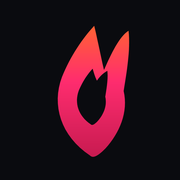
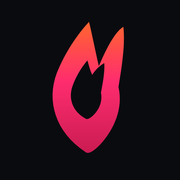
fix(brand): nest open, TG safe margin, mono white, heart A/B only
Open nest ~11% with denser stem / thinner ears via evenodd geometry;
shrink Telegram avatar mark to ~50% with COM optical center; add
mark-mono-white master; keep micro-heart as logo-variants only.

Changed region(s): [[0.2778, 0.1111, 0.7222, 0.8889]]

diff --git a/web/src/components/BrandMark.tsx b/web/src/components/BrandMark.tsx
@@ -9,7 +9,7 @@ import { useId } from "react";
 
 /** Пламя + гнездо (evenodd). viewBox 100×100. */
 const ФАКЕЛ =
-  "M 50.000,81.494 C 35.850,72.061 31.470,57.236 36.523,43.760 C 40.566,33.652 46.631,24.893 52.021,19.165 C 54.043,27.588 55.391,35.000 56.738,40.391 C 60.107,32.642 64.150,24.219 68.530,21.523 C 69.541,30.957 67.520,41.738 66.172,50.498 C 68.530,60.605 64.150,70.713 57.412,78.125 C 53.369,82.168 51.348,82.842 50.000,81.494 Z M 50.391,66.523 C 44.320,62.477 42.441,56.117 44.609,50.336 C 46.344,46.000 48.945,42.242 51.258,39.785 C 52.000,42.200 52.600,44.200 53.350,45.500 C 54.200,44.200 55.800,42.200 58.340,40.797 C 58.773,44.844 57.906,49.469 57.328,53.227 C 58.340,57.563 56.461,61.898 53.570,65.078 C 51.836,66.812 50.969,67.102 50.391,66.523 Z";
+  "M 50.000,81.494 C 35.850,72.061 31.470,57.236 36.523,43.760 C 40.566,33.652 46.631,24.893 52.021,19.165 C 54.043,27.588 55.391,35.000 56.738,40.391 C 60.107,32.642 64.150,24.219 68.530,21.523 C 69.541,30.957 67.520,41.738 66.172,50.498 C 68.530,60.605 64.150,70.713 57.412,78.125 C 53.369,82.168 51.348,82.842 50.000,81.494 Z M 50.450,65.683 C 44.323,62.473 41.919,56.266 44.070,50.074 C 45.803,45.173 48.630,40.724 51.251,37.715 C 52.094,40.674 52.757,43.065 53.580,44.592 C 54.551,43.065 56.403,40.674 59.349,38.964 C 59.645,43.824 58.476,49.114 57.743,53.202 C 58.691,57.762 56.497,61.957 53.480,64.624 C 51.798,65.881 50.994,66.076 50.450,65.683 Z";
 
 export default function BrandMark({
   size = 64,

diff --git a/tools/brandmark.py b/tools/brandmark.py
@@ -4,9 +4,12 @@
 Внутри — тёмное гнездо той же формы («ушки»), без отдельного глифа
 (+, бар, искра) и без крупного сердца, ломающего контур.
 
-Геометрия — исходный r3-06-dawn (viewBox 1024→100), долина стыка
-внутренних шардов поднята, чтобы убрать белый сливер. Растр через
-4× supersample — PIL polygon без него оставлял светлую щель на AA.
+Геометрия — outer r3-06-dawn (viewBox 1024→100) без изменений силуэта.
+Nest открыт ~11% и перераспределён по весу кольца (evenodd): тоньше
+пики/ушки, плотнее ножка. Долина стыка шардов сохранена.
+
+Растр через 4× supersample — PIL polygon без него оставлял светлую
+щель на AA.
 
 Источник правды для make_icons / make_banners; SVG на лендинге и
 React (BrandMark.tsx) повторяют те же контуры.
@@ -41,16 +44,31 @@ _OUTER_100 = (
     "C 68.530,60.605 64.150,70.713 57.412,78.125 "
     "C 53.369,82.168 51.348,82.842 50.000,81.494 Z"
 )
-# Nested гнездо: ушки как у r3-06, долина стыка ~45.5 (было ~48.9),
-# чтобы шарды сходились без белого сливера на растеризации.
+
+# Nested гнездо: канон r3-06, затем morph от центроида nest
+# (mid=1.07, top=1.15, bot=0.93) — площадь cutout +~11.5%, ушки
+# тоньше (~−10%), ножка плотнее (~+5%). Силуэт outer не трогаем.
 _NEST_100 = (
-    "M 50.391,66.523 C 44.320,62.477 42.441,56.117 44.609,50.336 "
-    "C 46.344,46.000 48.945,42.242 51.258,39.785 "
-    "C 52.000,42.200 52.600,44.200 53.350,45.500 "
-    "C 54.200,44.200 55.800,42.200 58.340,40.797 "
-    "C 58.773,44.844 57.906,49.469 57.328,53.227 "
-    "C 58.340,57.563 56.461,61.898 53.570,65.078 "
-    "C 51.836,66.812 50.969,67.102 50.391,66.523 Z"
+    "M 50.450,65.683 C 44.323,62.473 41.919,56.266 44.070,50.074 "
+    "C 45.803,45.173 48.630,40.724 51.251,37.715 "
+    "C 52.094,40.674 52.757,43.065 53.580,44.592 "
+    "C 54.551,43.065 56.403,40.674 59.349,38.964 "
+    "C 59.645,43.824 58.476,49.114 57.743,53.202 "
+    "C 58.691,57.762 56.497,61.957 53.480,64.624 "
+    "C 51.798,65.881 50.994,66.076 50.450,65.683 Z"
+)
+
+# Микро-сердце внутри nest — только для A/B variant, не default mark.
+# viewBox 100; центр гнезда ~ (51.3, 52.5), компактно чтобы не
+# касаться ушек и не читаться как «сердце-факел».
+_HEART_100 = (
+    "M 51.30,55.55 "
+    "C 49.95,54.55 48.95,53.35 48.95,52.05 "
+    "C 48.95,51.05 49.70,50.40 50.55,50.40 "
+    "C 50.95,50.40 51.30,50.60 51.30,50.60 "
+    "C 51.30,50.60 51.65,50.40 52.05,50.40 "
+    "C 52.90,50.40 53.65,51.05 53.65,52.05 "
+    "C 53.65,53.35 52.65,54.55 51.30,55.55 Z"
 )
 
 # Половина высоты внешнего пламени в unit-space (для масштаба r).
@@ -59,6 +77,7 @@ _UNIT_HALF = 31.16
 
 # Публичный path для сверки со SVG-носителями (outer + nest, evenodd).
 ФАКЕЛ_PATH_100 = f"{_OUTER_100} {_NEST_100}"
+ФАКЕЛ_HEART_PATH_100 = f"{_OUTER_100} {_NEST_100} {_HEART_100}"
 
 # r3-06 асимметричен: левое ухо шире, правый кончик дальше.
 # Геометрический якорь path (50,50) и даже bbox силуэта врут — без
@@ -141,8 +160,8 @@ def _com_кольца(
 
     Bbox на r3-06 врёт: левое ухо шире, правый кончик дальше — геометрический
     центр даёт поля «математически ровные», а в круглой маске 640 факел
-    читается правее/ниже. Y — обычный COM кольца (поднимает марку).
-    X — COM с усиленным весом верхней трети (ушки), без правки силуэта.
+    читается правее/ниже. Y — обычный COM кольца. X — COM с усиленным
+    весом верхней трети (ушки), без правки силуэта.
     """
     scale = res / 100.0
     canvas = Image.new("L", (res, res), 0)
@@ -180,6 +199,7 @@ def _com_кольца(
 
 _OUTER_POLY = _полигон_из_path(_OUTER_100)
 _NEST_POLY = _полигон_из_path(_NEST_100)
+_HEART_POLY = _полигон_из_path(_HEART_100)
 
 # Оптический якорь = COM цветного кольца (X с весом ушек), не bbox.
 _ЯКОРЬ_X, _ЯКОРЬ_Y = _com_кольца(_OUTER_POLY, _NEST_POLY)
@@ -210,6 +230,33 @@ def _градиент_вертикаль(
     return g.resize((w, h), Image.BILINEAR)
 
 
+def _маска_знака(
+    size: tuple[int, int],
+    cx: float,
+    cy: float,
+    r: float,
+    с_сердцем: bool = False,
+) -> Image.Image:
+    """Alpha-маска кольца (outer \\ nest), опционально + микро-сердце."""
+    if r < 1:
+        return Image.new("L", size, 0)
+
+    ss = 4
+    w, h = size
+    big = (w * ss, h * ss)
+    outer = _масштаб(_OUTER_POLY, cx * ss, cy * ss, r * ss)
+    nest = _масштаб(_NEST_POLY, cx * ss, cy * ss, r * ss)
+
+    маска = Image.new("L", big, 0)
+    draw_m = ImageDraw.Draw(маска)
+    draw_m.polygon(outer, fill=255)
+    draw_m.polygon(nest, fill=0)
+    if с_сердцем:
+        heart = _масштаб(_HEART_POLY, cx * ss, cy * ss, r * ss)
+        draw_m.polygon(heart, fill=255)
+    return маска.resize((w, h), Image.LANCZOS)
+
+
 def нарисовать_знак(
     img: Image.Image,
     cx: float,
@@ -226,22 +273,74 @@ def нарисовать_знак(
     else:
         верх, середина, низ = ОРАНЖ, МАЛИНОВЫЙ, МАЛИНА_ТЁМНАЯ
 
-    # 4× supersample: иначе PIL polygon оставляет светлую щель на стыке шардов.
-    ss = 4
-    w, h = img.size
-    big = (w * ss, h * ss)
-    outer = _масштаб(_OUTER_POLY, cx * ss, cy * ss, r * ss)
-    nest = _масштаб(_NEST_POLY, cx * ss, cy * ss, r * ss)
-
-    маска = Image.new("L", big, 0)
-    draw_m = ImageDraw.Draw(маска)
-    draw_m.polygon(outer, fill=255)
-    draw_m.polygon(nest, fill=0)
-    маска = маска.resize((w, h), Image.LANCZOS)
-
+    маска = _маска_знака(img.size, cx, cy, r, с_сердцем=False)
     градиент = _градиент_вертикаль(img.size, верх, низ, середина).convert("RGBA")
     градиент.putalpha(маска)
 
     база = img.convert("RGBA")
     база.alpha_composite(градиент)
     img.paste(база.convert(img.mode))
+
+
+def сделать_mono_white(size: int = 1024) -> Image.Image:
+    """Белый monochrome master на прозрачном — Liquid Glass / tinted iOS.
+
+    Не заменяет цветной канон. Силуэт = outer \\ nest, без сердца.
+    """
+    img = Image.new("RGBA", (size, size), (0, 0, 0, 0))
+    r = size * 0.36
+    маска = _маска_знака(img.size, size * 0.5, size * 0.5, r, с_сердцем=False)
+    белый = Image.new("RGBA", img.size, (255, 255, 255, 255))
+    белый.putalpha(маска)
+    img.alpha_composite(белый)
+    return img
+
+
+def svg_знак(
+    *,
+    mono_white: bool = False,
+    с_сердцем: bool = False,
+    view: int = 100,
+) -> str:
+    """SVG viewBox 100×100 — те же path, что растр."""
+    path = ФАКЕЛ_HEART_PATH_100 if с_сердцем else ФАКЕЛ_PATH_100
+    if mono_white:
+        fill = '#ffffff'
+        defs = ""
+        fill_attr = fill
+    else:
+        defs = (
+            '<defs>\n'
+            '    <linearGradient id="dawn" x1="36" y1="18" x2="60" y2="82" '
+            'gradientUnits="userSpaceOnUse">\n'
+            '      <stop offset="0%" stop-color="#ff7a1a"/>\n'
+            '      <stop offset="45%" stop-color="#ff2d6f"/>\n'
+            '      <stop offset="100%" stop-color="#b81648"/>\n'
+            "    </linearGradient>\n"
+            "  </defs>\n  "
+        )
+        fill_attr = "url(#dawn)"
+    heart_note = " + micro-heart (A/B only)" if с_сердцем else ""
+    return (
+        f'<svg xmlns="http://www.w3.org/2000/svg" viewBox="0 0 {view} {view}" '
+        f'width="{view}" height="{view}" fill="none" '
+        f'role="img" aria-label="Souldawn">\n'
+        f"  <!-- nested torch r3-06{heart_note}. Геометрия = tools/brandmark.py -->\n"
+        f"  {defs}"
+        f'<path fill-rule="evenodd" d="{path}" fill="{fill_attr}"/>\n'
+        f"</svg>\n"
+    )
+
+
+def сделать_знак_с_сердцем(size: int = 512, bg: tuple[int, int, int] = (10, 11, 15)) -> Image.Image:
+    """A/B variant: default mark + микро-сердце в nest. Не production default."""
+    img = Image.new("RGB", (size, size), bg)
+    r = size * 0.36
+    маска = _маска_знака(img.size, size * 0.5, size * 0.5, r, с_сердцем=True)
+    градиент = _градиент_вертикаль(
+        img.size, ОРАНЖ, МАЛИНА_ТЁМНАЯ, МАЛИНОВЫЙ
+    ).convert("RGBA")
+    градиент.putalpha(маска)
+    база = img.convert("RGBA")
+    база.alpha_composite(градиент)
+    return база.convert("RGB")

diff --git a/tools/make_icons.py b/tools/make_icons.py
@@ -19,9 +19,15 @@ import shutil
 import subprocess
 from pathlib import Path
 
-from PIL import Image
+from PIL import Image, ImageDraw
 
-from brandmark import нарисовать_знак
+from brandmark import (
+    ФАКЕЛ_PATH_100,
+    нарисовать_знак,
+    сделать_mono_white,
+    сделать_знак_с_сердцем,
+    svg_знак,
+)
 
 ROOT = Path(__file__).resolve().parent.parent
 IOS_ASSETS = ROOT / "web" / "ios" / "App" / "App" / "Assets.xcassets"
@@ -59,18 +65,117 @@ def make_splash(w: int = 2732, h: int = 2732) -> Image.Image:
 def make_telegram_avatar(size: int = 640) -> Image.Image:
     """Аватар бота для BotFather /setuserpic.
 
-    Квадрат 640×640, сплошной #0a0b0f без прозрачности. Знак ~54%
-    высоты кадра (поля ~23% сверху/снизу) — читается в круглой маске
-    Telegram без «впритык к краю». brandmark якорит COM кольца
-    (с весом ушек) в центре квадрата — не bbox.
+    Квадрат 640×640, сплошной #0a0b0f без прозрачности. Знак ~50%
+    высоты кадра (целевой коридор 48–52%) — safe margin в круглой
+    маске Telegram, ушки не режутся. Оптический центр чуть ниже
+    геометрического (cy≈0.515): асимметрия ушей компенсируется
+    COM-якорем в brandmark, не bbox.
     """
     img = Image.new("RGB", (size, size), BG)
-    # 0.36 → ~73% высоты; 0.267 → ~54% (середина целевого 52–56%).
-    нарисовать_знак(img, size * 0.5, size * 0.5, size * 0.267)
+    # 2R/size ≈ 0.50 → r = 0.25; было 0.267 (~54%).
+    нарисовать_знак(img, size * 0.5, size * 0.515, size * 0.25)
     return img
 
 
+def _write_text(path: Path, text: str) -> None:
+    path.parent.mkdir(parents=True, exist_ok=True)
+    path.write_text(text, encoding="utf-8")
+    print(f"✓ {path}")
+
+
+def sync_vector_carriers() -> None:
+    """Подтягивает path из brandmark в BrandMark.tsx / landing SVG."""
+    path = ФАКЕЛ_PATH_100
+
+    # BrandMark.tsx — константа ФАКЕЛ
+    bm = ROOT / "web" / "src" / "components" / "BrandMark.tsx"
+    bm_src = bm.read_text(encoding="utf-8")
+    import re
+
+    bm_new, n = re.subn(
+        r'(const ФАКЕЛ =\n  ")([^"]+)(";)',
+        rf"\g<1>{path}\g<3>",
+        bm_src,
+        count=1,
+    )
+    if n != 1:
+        raise RuntimeError("BrandMark.tsx: не нашёл const ФАКЕЛ")
+    bm.write_text(bm_new, encoding="utf-8")
+    print(f"✓ {bm} (path sync)")
+
+    # landing/icon.svg — path в <g>
+    icon = ROOT / "landing" / "icon.svg"
+    icon_src = icon.read_text(encoding="utf-8")
+    icon_new, n = re.subn(
+        r'(fill-rule="evenodd" d=")([^"]+)(")',
+        rf"\g<1>{path}\g<3>",
+        icon_src,
+        count=1,
+    )
+    if n != 1:
+        raise RuntimeError("landing/icon.svg: не нашёл path")
+    icon.write_text(icon_new, encoding="utf-8")
+    print(f"✓ {icon} (path sync)")
+
+    # landing/og-image.svg
+    og = ROOT / "landing" / "og-image.svg"
+    og_src = og.read_text(encoding="utf-8")
+    og_new, n = re.subn(
+        r'(fill-rule="evenodd" d=")([^"]+)(")',
+        rf"\g<1>{path}\g<3>",
+        og_src,
+        count=1,
+    )
+    if n != 1:
+        raise RuntimeError("landing/og-image.svg: не нашёл path")
+    og.write_text(og_new, encoding="utf-8")
+    print(f"✓ {og} (path sync)")
+
+
+def write_mono_and_variants() -> None:
+    """Белый mono master + A/B heart variant (не default)."""
+    brand = WEB_PUBLIC / "brand"
+    brand.mkdir(parents=True, exist_ok=True)
+
+    mono = сделать_mono_white(1024)
+    mono_png = brand / "mark-mono-white.png"
+    mono.save(mono_png, "PNG")
+    print(f"✓ {mono_png}")
+
+    mono_svg = brand / "mark-mono-white.svg"
+    _write_text(mono_svg, svg_знак(mono_white=True))
+
+    # Цветной SVG master рядом (для справки / tint pipelines)
+    mark_svg = brand / "mark.svg"
+    _write_text(mark_svg, svg_знак(mono_white=False))
+
+    variants = WEB_PUBLIC / "logo-variants"
+    variants.mkdir(parents=True, exist_ok=True)
+    heart_svg = variants / "r3-06-dawn-nest-heart.svg"
+    _write_text(heart_svg, svg_знак(с_сердцем=True))
+    heart_png = variants / "r3-06-dawn-nest-heart.png"
+    сделать_знак_с_сердцем(512, BG).save(heart_png, "PNG")
+    print(f"✓ {heart_png}")
+
+
+def write_circle_preview(tg: Image.Image, out: Path) -> None:
+    """Круглая маска как в Telegram — для визуальной проверки полей."""
+    size = tg.size[0]
+    mask = Image.new("L", (size, size), 0)
+    ImageDraw.Draw(mask).ellipse((0, 0, size - 1, size - 1), fill=255)
+    rgba = tg.convert("RGBA")
+    rgba.putalpha(mask)
+    # на нейтральном сером, чтобы видеть края
+    canvas = Image.new("RGB", (size, size), (40, 42, 48))
+    canvas.paste(rgba, mask=mask)
+    out.parent.mkdir(parents=True, exist_ok=True)
+    canvas.save(out, "PNG")
+    print(f"✓ {out}")
+
+
 def main() -> None:
+    sync_vector_carriers()
+
     icon = make_icon(1024)
 
     # ── iOS ────────────────────────────────────────────────────
@@ -121,6 +226,9 @@ def main() -> None:
     shutil.copyfile(tg_brand, tg_public)
     print(f"✓ {tg_brand}")
     print(f"✓ {tg_public}")
+
+    write_circle_preview(tg, Path("/tmp/souldawn-tg-circle-preview.png"))
+    write_mono_and_variants()
 
     # Превью ссылки в соцсетях и мессенджерах.
     #
